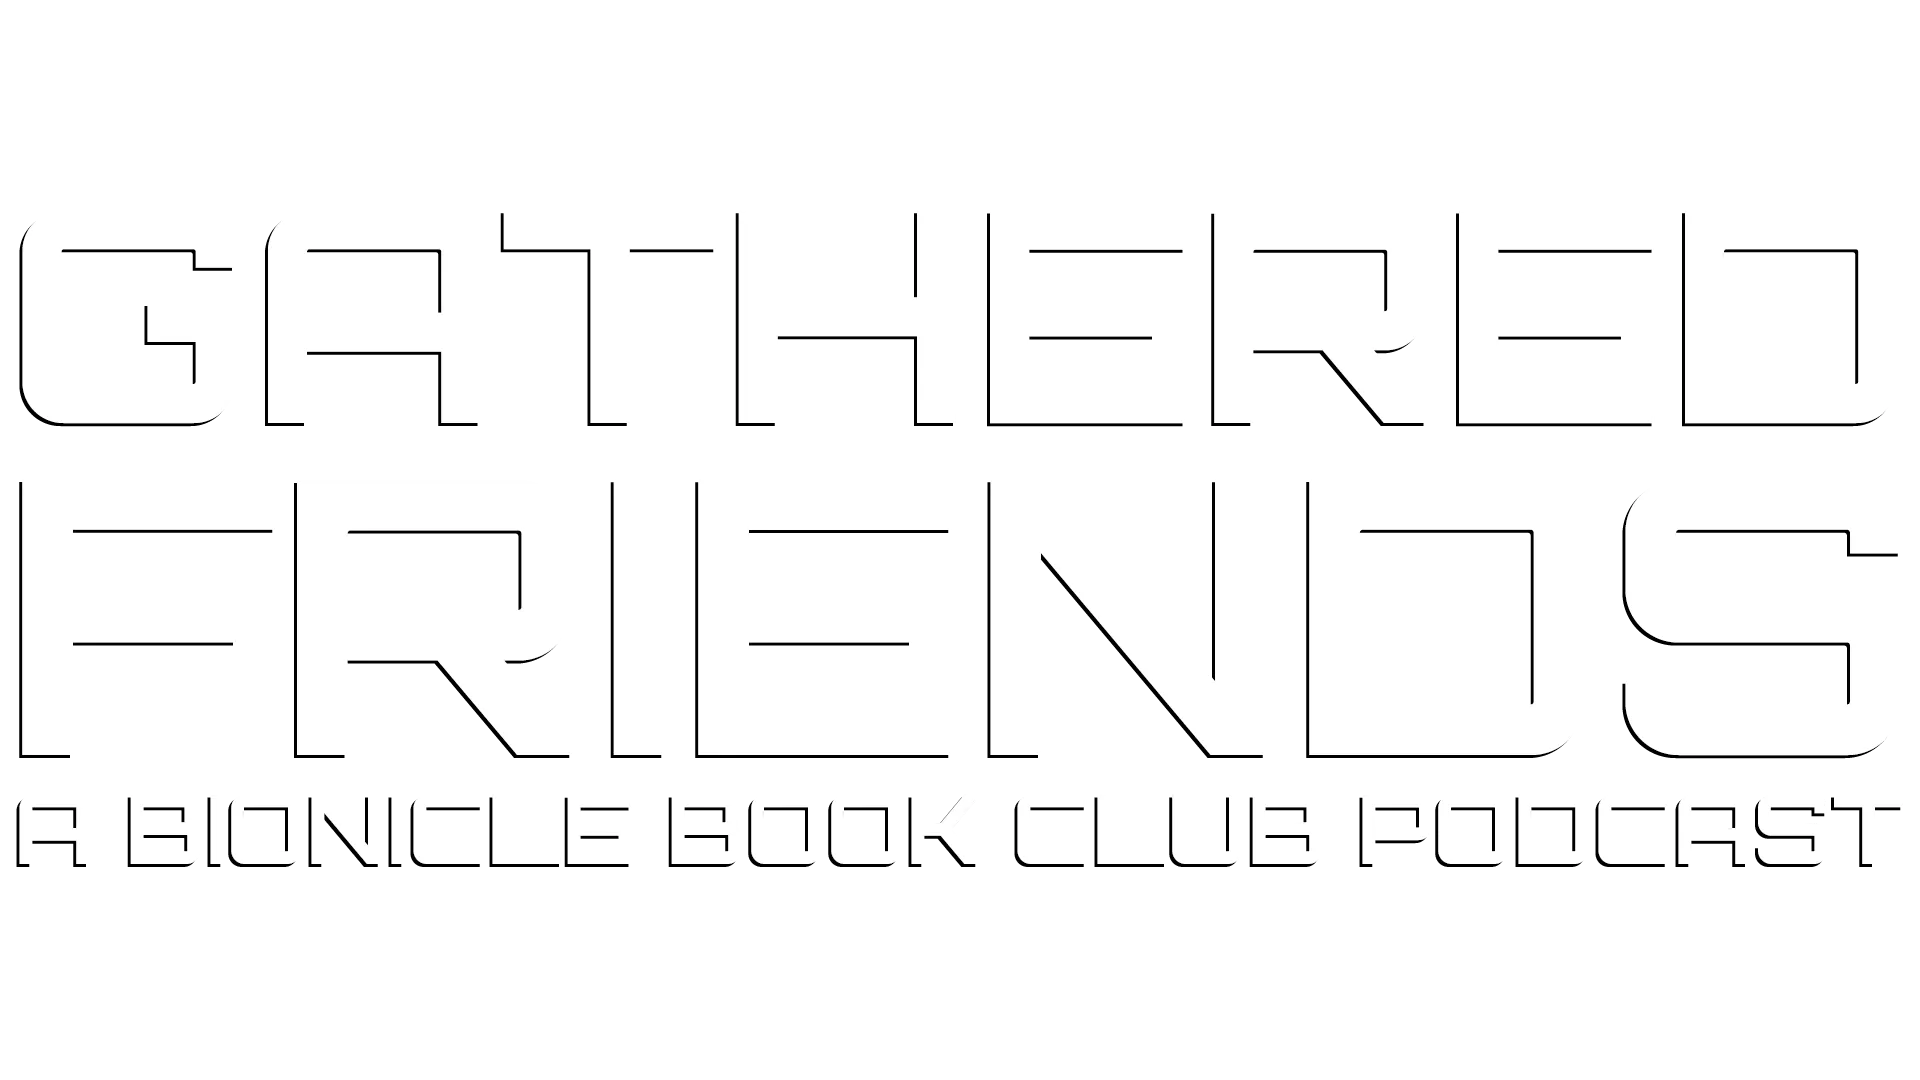
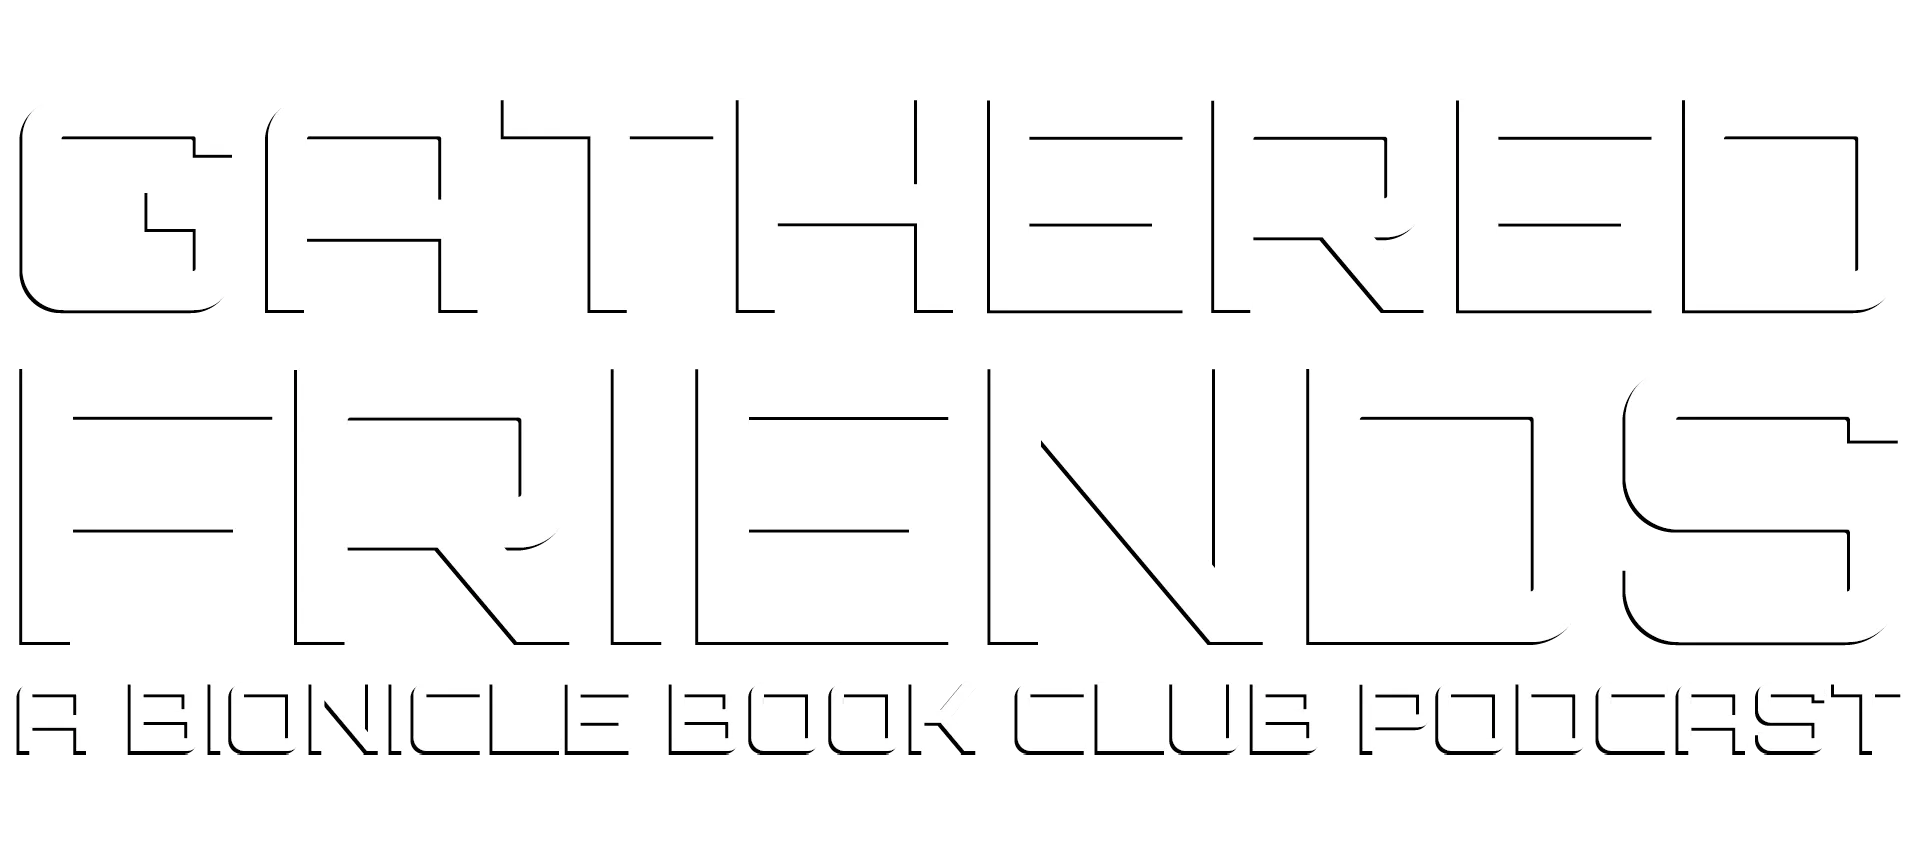
Blah

diff --git a/index.html b/index.html
@@ -32,7 +32,8 @@
 		</a>
 		<header>
 			<div class="center">
-				<img src="img/GF5th-IconTrans.webp">
+				<img src="img/GF5th-IconTrans.webp" width="35%" height="35%"><br>
+				<img src="img/GF5th-Text.webp" width="35%" height="35%">
 			</div>
 		</header>
 		<main>

diff --git a/css/splash.css b/css/splash.css
@@ -91,6 +91,11 @@ video {
 }
 
 
+div {
+  padding: 50px 50px 50px 50px;
+}
+
+
 header,
 header img {
     margin: auto;
